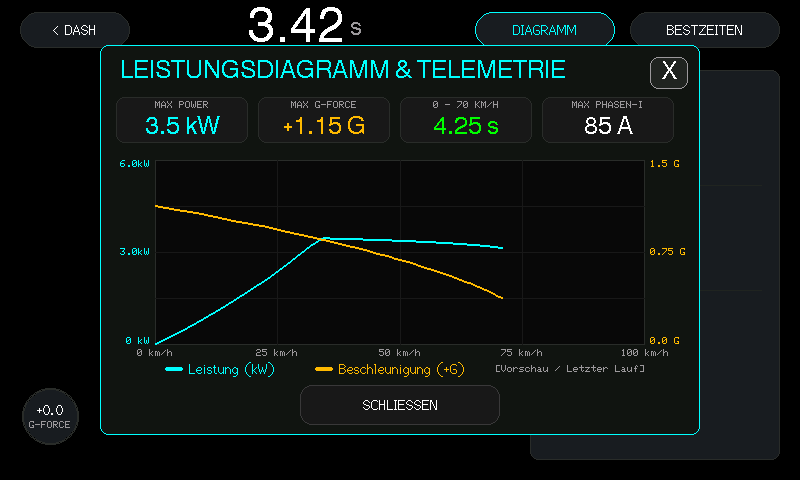
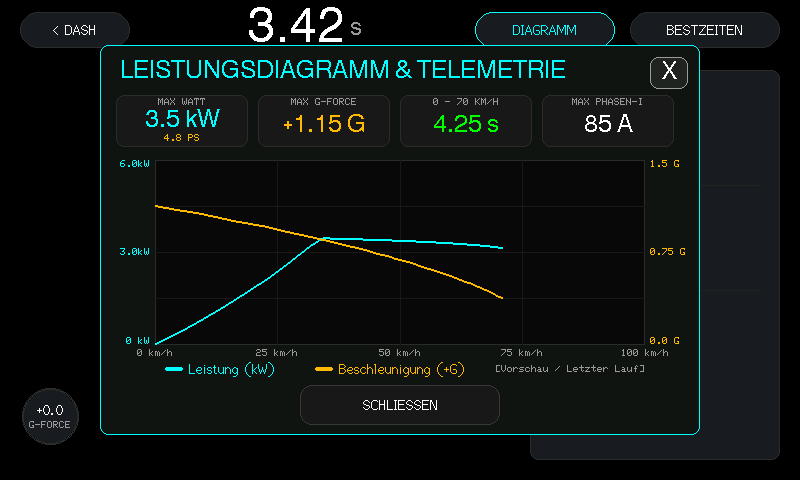
feat(dyno): display horsepower (PS) below peak power in dyno modal and stats card

diff --git a/src/dash_renderer.cpp b/src/dash_renderer.cpp
@@ -1279,15 +1279,21 @@ void DashboardRenderer::renderRtGraphsScreen(const DashTelemetry &telemetry) {
         _canvas->drawString(remWh, 605, 122);
     }
 
-    // Tile 1: MAX LEISTUNG (PEAK WATT)
+    // Tile 1: MAX LEISTUNG (PEAK WATT & PS)
     int cur_pwr = (int)(telemetry.stats.peak_power_watts + 0.5f);
     if (!_stats_inited || cur_pwr != _stats_cache.peak_watts) {
         _stats_cache.peak_watts = cur_pwr;
-        _canvas->fillRect(32, 202, 220, 42, COLOR_SURFACE);
+        _canvas->fillRect(32, 202, 220, 60, COLOR_SURFACE);
         _canvas->setFont(&fonts::Font4);
         _canvas->setTextColor(COLOR_WHITE, COLOR_SURFACE);
         char pwrBuf[16]; snprintf(pwrBuf, sizeof(pwrBuf), "%.0f W", telemetry.stats.peak_power_watts);
         _canvas->drawString(pwrBuf, 32, 202);
+
+        float ps_stat = telemetry.stats.peak_power_watts * 0.00135962f;
+        char psBuf[16]; snprintf(psBuf, sizeof(psBuf), "%.1f PS", ps_stat);
+        _canvas->setFont(&fonts::Font2);
+        _canvas->setTextColor(COLOR_AMBER, COLOR_SURFACE);
+        _canvas->drawString(psBuf, 32, 238);
     }
 
     // Tile 2: PEAK AKKU-STROM
@@ -2569,43 +2575,63 @@ void DashboardRenderer::drawRaceDynoModal(const DashTelemetry &telemetry) {
 
     // Determine Peak & Summary Statistics
     // Fall back to realistic scooter specs if no run has been recorded yet
-    float peak_kw = (telemetry.race_dyno.peak_watts > 100.0f) ? (telemetry.race_dyno.peak_watts / 1000.0f) : 3.52f;
+    float peak_w  = (telemetry.race_dyno.peak_watts > 100.0f) ? telemetry.race_dyno.peak_watts : 3520.0f;
+    float peak_kw = peak_w / 1000.0f;
+    float peak_ps = peak_w * 0.00135962f;
     float peak_g  = (telemetry.race_dyno.peak_g_force > 0.05f) ? telemetry.race_dyno.peak_g_force : 1.15f;
     float peak_i  = (telemetry.race_dyno.peak_phase_amps > 5.0f) ? telemetry.race_dyno.peak_phase_amps : 85.0f;
     float t_70    = (telemetry.race_split_0_70 > 0.01f) ? telemetry.race_split_0_70 :
                     (telemetry.race_records.best_0_70_sec > 0.01f ? telemetry.race_records.best_0_70_sec : 4.25f);
 
-    // 4 Stat Tiles: MAX POWER, MAX G-FORCE, 0-70 KM/H, MAX PHASEN-I
-    int tile_y = my + 52;
+    // 4 Stat Tiles: MAX WATT, MAX G-FORCE, 0-70 KM/H, MAX PHASEN-I
+    int tile_y = my + 50;
     int tile_w = 132;
-    int tile_h = 46;
+    int tile_h = 52;
     int tile_gap = 10;
     int tile_x0 = mx + 16;
 
-    auto drawStatTile = [&](int idx, const char *label, const char *val, uint16_t valColor) {
+    auto drawStatTile = [&](int idx, const char *label, const char *val, const char *sub_val, uint16_t valColor) {
         int tx = tile_x0 + idx * (tile_w + tile_gap);
         _canvas->fillRoundRect(tx, tile_y, tile_w, tile_h, 8, 0x18C3);
         _canvas->drawRoundRect(tx, tile_y, tile_w, tile_h, 8, 0x2965);
         _canvas->setFont(&fonts::Font0);
         _canvas->setTextColor(COLOR_MUTED_GRAY, 0x18C3);
         _canvas->setTextDatum(textdatum_t::top_center);
-        _canvas->drawString(label, tx + tile_w / 2, tile_y + 4);
-        _canvas->setFont(&fonts::Font4);
-        _canvas->setTextColor(valColor, 0x18C3);
-        _canvas->setTextDatum(textdatum_t::bottom_center);
-        _canvas->drawString(val, tx + tile_w / 2, tile_y + tile_h - 2);
+        _canvas->drawString(label, tx + tile_w / 2, tile_y + 3);
+
+        if (sub_val && sub_val[0] != '\0') {
+            _canvas->setFont(&fonts::Font4);
+            _canvas->setTextColor(valColor, 0x18C3);
+            _canvas->setTextDatum(textdatum_t::top_center);
+            _canvas->drawString(val, tx + tile_w / 2, tile_y + 13);
+
+            _canvas->setFont(&fonts::Font0);
+            _canvas->setTextColor(COLOR_AMBER, 0x18C3);
+            _canvas->setTextDatum(textdatum_t::top_center);
+            _canvas->drawString(sub_val, tx + tile_w / 2, tile_y + 39);
+        } else {
+            _canvas->setFont(&fonts::Font4);
+            _canvas->setTextColor(valColor, 0x18C3);
+            _canvas->setTextDatum(textdatum_t::middle_center);
+            _canvas->drawString(val, tx + tile_w / 2, tile_y + 31);
+        }
     };
 
-    char b1[16], b2[16], b3[16], b4[16];
-    snprintf(b1, sizeof(b1), "%.1f kW", peak_kw);
+    char b1[16], sub_b1[16], b2[16], b3[16], b4[16];
+    if (peak_kw >= 1.0f) {
+        snprintf(b1, sizeof(b1), "%.1f kW", peak_kw);
+    } else {
+        snprintf(b1, sizeof(b1), "%.0f W", peak_w);
+    }
+    snprintf(sub_b1, sizeof(sub_b1), "%.1f PS", peak_ps);
     snprintf(b2, sizeof(b2), "+%.2f G", peak_g);
     snprintf(b3, sizeof(b3), "%.2f s", t_70);
     snprintf(b4, sizeof(b4), "%.0f A", peak_i);
 
-    drawStatTile(0, "MAX POWER", b1, COLOR_CYAN);
-    drawStatTile(1, "MAX G-FORCE", b2, COLOR_AMBER);
-    drawStatTile(2, "0 - 70 KM/H", b3, COLOR_GREEN);
-    drawStatTile(3, "MAX PHASEN-I", b4, COLOR_WHITE);
+    drawStatTile(0, "MAX WATT", b1, sub_b1, COLOR_CYAN);
+    drawStatTile(1, "MAX G-FORCE", b2, nullptr, COLOR_AMBER);
+    drawStatTile(2, "0 - 70 KM/H", b3, nullptr, COLOR_GREEN);
+    drawStatTile(3, "MAX PHASEN-I", b4, nullptr, COLOR_WHITE);
 
     // Dyno Chart Area
     int gx = mx + 55;
